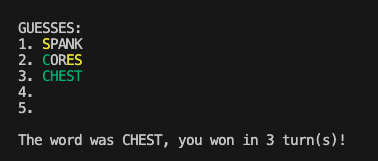
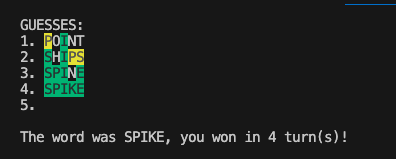
create color variable file, change gameplay screenshot

diff --git a/features/compare.py b/features/compare.py
@@ -1,3 +1,5 @@
+from features.colors import yellow_background, green_background
+
 #WORDS FOR TESTING...
 # word1 = ['a', 'b', 'c', 'd', 'e']
 # word2 = ['a', 'b', 'c', 'd', 'e']
@@ -42,39 +44,39 @@ def interpret_word(word):
 
 #CHECK TO SEE IF FIRST LETTER IS RIGHT PLACE, WRONG PLACE, OR NOT PRESENT/CHANGE COLOR ACCORDINGLY
     if len(word[0]) == 3:
-        word_string += f'\033[32m{word[0][0]}\033[0m'
+        word_string += f'{green_background}{word[0][0]}\033[0m'
     elif len(word[0]) == 2:
-        word_string += f'\033[33m{word[0][0]}\033[0m'
+        word_string += f'{yellow_background}{word[0][0]}\033[0m'
     else:
         word_string += word[0][0]
 
 #CHECK TO SEE IF SECOND LETTER IS RIGHT PLACE, WRONG PLACE, OR NOT PRESENT/CHANGE COLOR ACCORDINGLY
     if len(word[1]) == 3:
-        word_string += f'\033[32m{word[1][0]}\033[0m'
+        word_string += f'{green_background}{word[1][0]}\033[0m'
     elif len(word[1]) == 2:
-        word_string += f'\033[33m{word[1][0]}\033[0m'
+        word_string += f'{yellow_background}{word[1][0]}\033[0m'
     else:
         word_string += word[1][0]
-        
+
 #CHECK TO SEE IF THIRD LETTER IS RIGHT PLACE, WRONG PLACE, OR NOT PRESENT/CHANGE COLOR ACCORDINGLY
     if len(word[2]) == 3:
-        word_string += f'\033[32m{word[2][0]}\033[0m'
+        word_string += f'{green_background}{word[2][0]}\033[0m'
     elif len(word[2]) == 2:
-        word_string += f'\033[33m{word[2][0]}\033[0m'
+        word_string += f'{yellow_background}{word[2][0]}\033[0m'
     else:
         word_string += word[2][0]
 #CHECK TO SEE IF FOURTH LETTER IS RIGHT PLACE, WRONG PLACE, OR NOT PRESENT/CHANGE COLOR ACCORDINGLY
     if len(word[3]) == 3:
-        word_string += f'\033[32m{word[3][0]}\033[0m'
+        word_string += f'{green_background}{word[3][0]}\033[0m'
     elif len(word[3]) == 2:
-        word_string += f'\033[33m{word[3][0]}\033[0m'
+        word_string += f'{yellow_background}{word[3][0]}\033[0m'
     else:
         word_string += word[3][0]
 #CHECK TO SEE IF FIFTH LETTER IS RIGHT PLACE, WRONG PLACE, OR NOT PRESENT/CHANGE COLOR ACCORDINGLY
     if len(word[4]) == 3:
-        word_string += f'\033[32m{word[4][0]}\033[0m'
+        word_string += f'{green_background}{word[4][0]}\033[0m'
     elif len(word[4]) == 2:
-        word_string += f'\033[33m{word[4][0]}\033[0m'
+        word_string += f'{yellow_background}{word[4][0]}\033[0m'
     else:
         word_string += word[4][0]
 

diff --git a/main.py b/main.py
@@ -8,17 +8,21 @@ from features.instructions import instructions
 # from words import word_list
 # from features.api.words import request_word
 from scraper.past_words import get_random_word
+from features.colors import light_text
+from features.colors import blue_text
+from features.colors import magenta_background, default_background
+from features.colors import red_text
 
 os.system('clear')
 
-print('\033[36m\033[45mWelcome to WORDIE.\033[37m\033[40m\n')
+print(f'{light_text}{magenta_background}Welcome to WORDIE.{default_background}')
 
-instructions_query = input('\nWould you like to hear the \033[34mdirections\033[37m? (y/n) ')
+instructions_query = input(f'\nWould you like to hear the {blue_text}directions{light_text}? (y/n) ')
 
 if instructions_query.upper() == 'Y' or instructions_query.upper() == 'YES':
     instructions()
 
-ready = input('\nAre you ready to play Wordie!? (y/n)')
+ready = input(f'\nAre you ready to play {red_text}Wordie{light_text}!? (y/n)')
 
 if ready == 'y' or ready.upper() == 'YES' or ready.upper() == 'Y':
     game(get_random_word)

diff --git a/features/colors.py b/features/colors.py
@@ -1,0 +1,21 @@
+
+# TEXT COLOR VARIABLES
+light_text = '\033[37m'
+dark_text = '\033[30m'
+green_text = '\033[32m'
+yellow_text = '\033[33m'
+blue_text = '\033[34m'
+cyan_text = '\033[36m'
+magenta_text = '\033[35m'
+red_text = '\033[31m'
+
+# BACKGROUND COLOR VARIABLES
+white_background = '\033[47m'
+default_background = '\033[49m'
+black_background = '\033[40m'
+green_background = '\033[42m'
+yellow_background = '\033[43m'
+blue_background = '\033[44m'
+cyan_background = '\033[46m'
+magenta_background = '\033[45m'
+

diff --git a/features/game.py b/features/game.py
@@ -7,7 +7,7 @@ def game(word):
     secret_word = [*word()]
 
     #UNCOMMENT TO REVEAL SECRET WORD DURING DEV. DELETE BEFORE DEPLOYMENT
-    # print(secret_word)
+    print(secret_word)
     guesses = ['', '', '', '', '']
 
     #PRINT A LIST OF INTERPRETED (COLOR CODED) GUESSES AFTER EACH TURN
